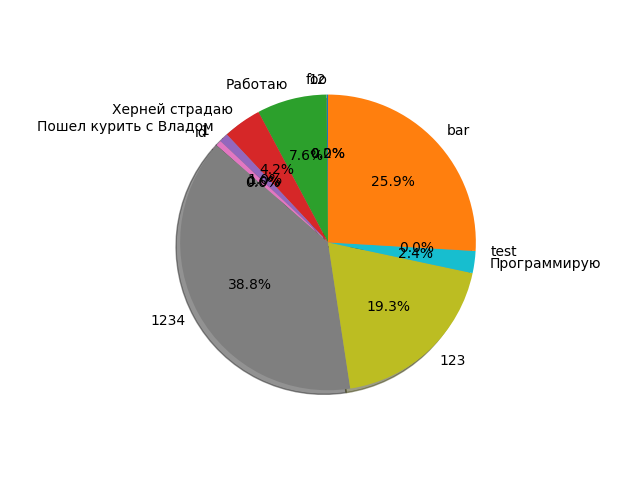
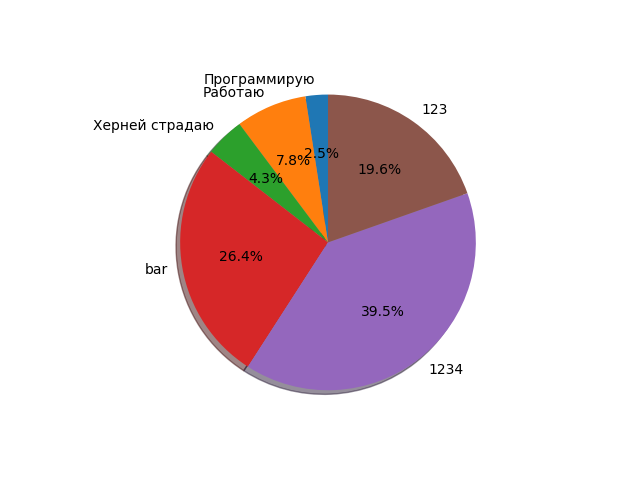
Добавлена статистика и один график

Changed region(s): [[0.0625, 0.1562, 0.9375, 0.8125], [0.2188, 0.6562, 0.2812, 0.6875], [0.2188, 0.5312, 0.25, 0.5938]]

diff --git a/statistic.py b/statistic.py
@@ -1,8 +1,9 @@
 import datetime
-
+import os
 import actions
 import matplotlib.pyplot as plt
 from typing import NamedTuple
+from aiogram import types
 
 
 class TimeDelta(NamedTuple):
@@ -12,8 +13,8 @@ class TimeDelta(NamedTuple):
 
 class TimeDeltaPerDay(NamedTuple):
     """Можно в этом месте еще добавить оператор типа итератор __next__"""
-    actions_names: list[str]
-    percents: list[float]
+    actions_names: list[str] = []
+    percents: list[float] = []
 
     def __len__(self):
         if len(self.actions_names) == len(self.percents):
@@ -31,6 +32,9 @@ class TimeDeltaPerDay(NamedTuple):
     def append(self, value: TimeDelta):
         self.actions_names.append(value.action_name)
         self.percents.append(value.percent)
+
+
+
 
 
 def get_times_delta_for_date(date: datetime.date = datetime.date(2022, 8, 31)) -> TimeDeltaPerDay:
@@ -56,38 +60,42 @@ def accumulate_same_actions(time_delta_per_day: TimeDeltaPerDay) -> TimeDeltaPer
         sum = 0
         for j in range(len(time_delta_per_day)):
             if a[i] == time_delta_per_day.actions_names[j]:
-               sum+=time_delta_per_day.percents[j]
+               sum += time_delta_per_day.percents[j]
         b.append(sum)
     return TimeDeltaPerDay(a, b)
 
-def apply_filters(times_delta: TimeDeltaPerDay):
-    times_delta2 = times_delta
+
+def apply_filters(times_delta: TimeDeltaPerDay) -> TimeDeltaPerDay:
+
+    times_delta_per_day = TimeDeltaPerDay([], [])
+    # По какой то причине не срабатывают значения по умолчанию при вызове конструктора TimeDeltaPerDay. Каким то
+    # образом данные начинают дублироваться в этом месте
     for i in range(len(times_delta)):
-        print(times_delta[i])
-        if times_delta[i].percent < 0.5:
-            times_delta2.percents = [times_delta.percents[:i] + times_delta.percents[i:]]
-    for i in range(len(times_delta2)):
-        print(times_delta2[i])
+        if times_delta[i].percent > 1:
+            time_delta = TimeDelta(times_delta[i].action_name, times_delta[i].percent)
+            times_delta_per_day.append(time_delta)
+    return times_delta_per_day
 
 
-
-
-
-def draw_plot(time_delta_per_day: TimeDeltaPerDay):
-    # makeitastring = ''.join(map(str, labels))
-    # colors = ['yellowgreen', 'lightgreen', 'darkgreen', 'gold', 'red', 'lightsalmon', 'darkred']
-    plt.pie(time_delta_per_day.percents, labels=time_delta_per_day.actions_names, autopct='%1.1f%%', shadow=True,
+def draw_plot(time_delta_per_day: TimeDeltaPerDay, filename: str):
+    fig = plt.figure(figsize=(10, 7))
+    ax1 = plt.pie(time_delta_per_day.percents, labels=time_delta_per_day.actions_names, autopct='%1.1f%%', shadow=True,
             startangle=90)  # line 240
-    # plt.pie(sizes, labels, colors)
-    # plt.axis('equal')
-    # plt.legend()
-    # plt.show()
-    plt.savefig('testplot.png')
+    #plt.legend(loc='lower right') #, bbox_to_anchor=(1.0, 1.0))
+    plt.savefig(filename)
+    fig.clear()
+    plt.close(fig)
+    #ax1.savefig(filename)
+    # 'left' is not a valid value for loc; supported values are 'best', 'upper right', 'upper left', 'lower left', 'lower right', 'right', 'center left', 'center right', 'lower center', 'upper center', 'center'
 
 
- #   plt.savefig('testplot.png')
+def get_today_statistic(user_id: int):
+    times_delta = get_times_delta_for_date(datetime.date.today())
+    times_delta = accumulate_same_actions(times_delta)
+    times_delta = apply_filters(times_delta)
+    filename = f"{datetime.date.today()}-{user_id}.png"
+    draw_plot(times_delta, filename)
+    return filename
 
 if __name__ == "__main__":
-    times_delta = accumulate_same_actions(get_times_delta_for_date())
-    #draw_plot(times_delta)
-    apply_filters(times_delta)
+    pass

diff --git a/actions.py b/actions.py
@@ -40,6 +40,8 @@ def convert_action_list_to_str(actions: list[Action]) -> str:
     str = ""
     for act in actions:
         str += act.str() + "\n"
+    if str == "":
+        str = "Действия отсутствуют"
     return str
 
 
